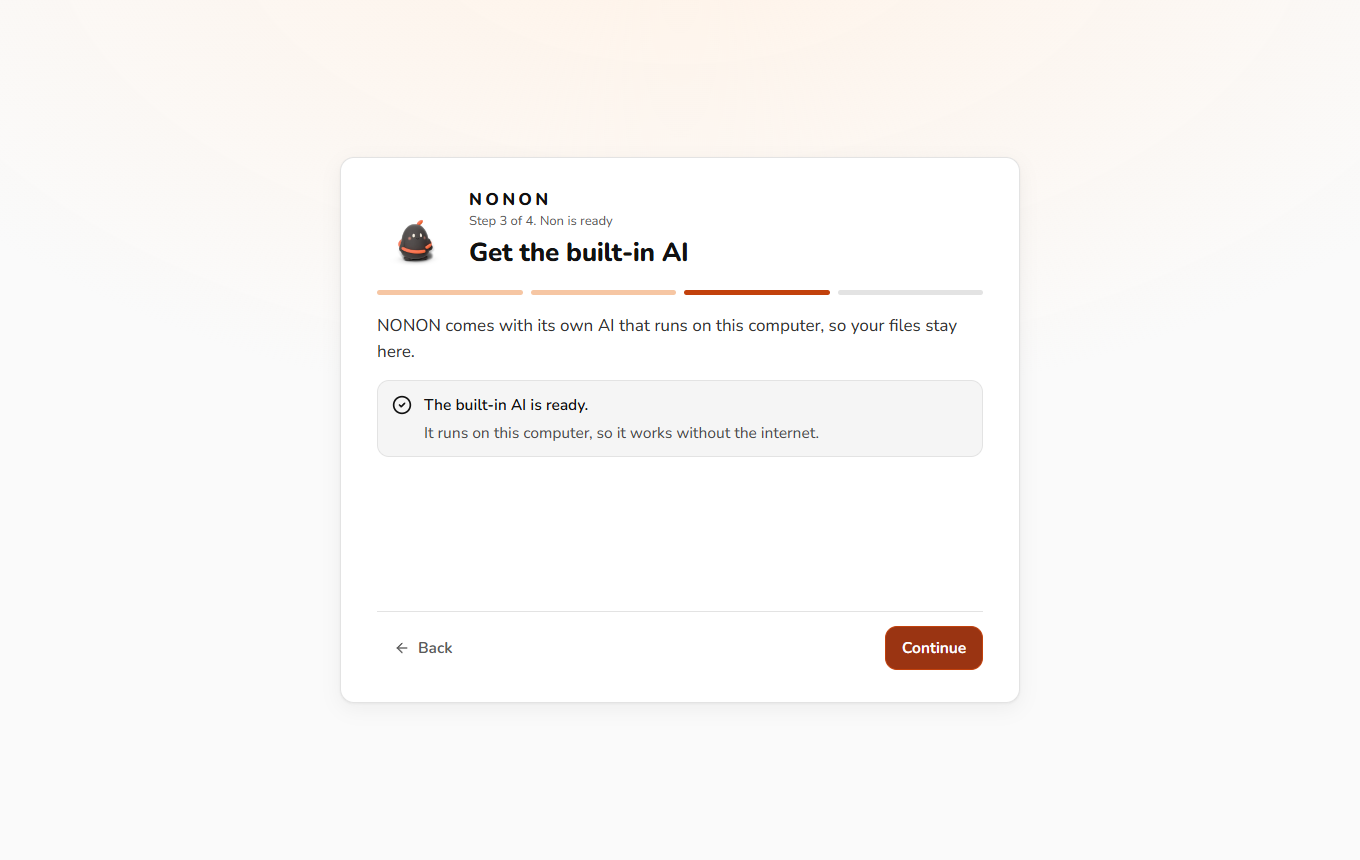
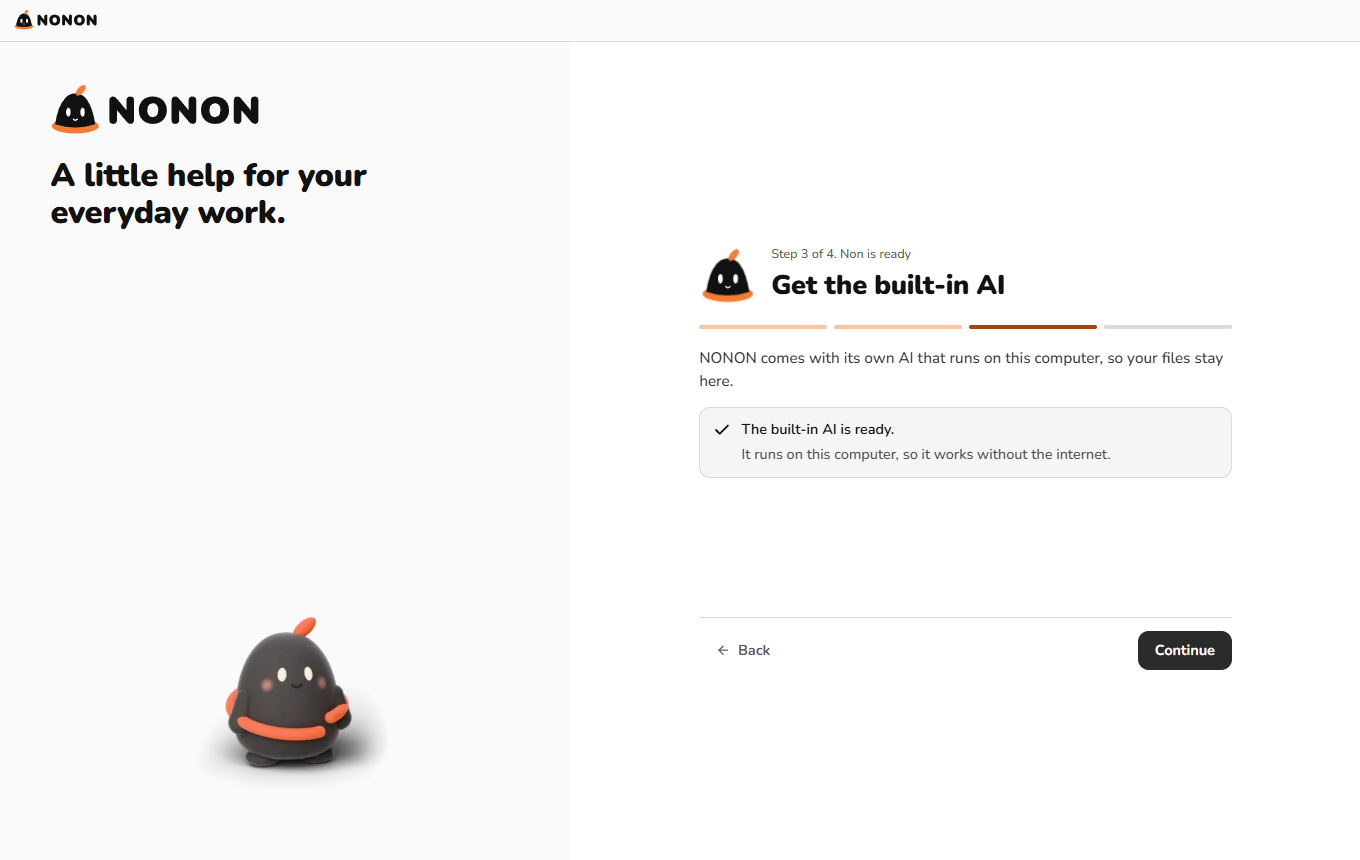
Add the MacBook's specs and measured speed; refresh submission docs and screenshots

diff --git a/site/web/lib/motion.js b/site/web/lib/motion.js
@@ -1,0 +1,86 @@
+/* ============================================================================
+   motion.js: the physics behind every gesture on the page, and one frame clock.
+
+   Ported from the Pragma site (motion.js + clock.js). Springs are parameterised the way
+   Apple's fluid-interfaces talk does it: `response` (seconds to reach the target) and
+   `damping` (1 = critically damped, no overshoot).
+   ========================================================================== */
+
+export const clamp = (n, a, b) => Math.min(b, Math.max(a, n));
+
+export class Spring {
+  constructor(value = 0, { response = 0.4, damping = 1 } = {}) {
+    this.v = value; this.target = value; this.vel = 0;
+    this.response = response; this.damping = damping;
+  }
+  set(target) { this.target = target; return this; }
+  /** Seed a value without motion. Never use this to interrupt one. */
+  jump(v) { this.v = v; this.target = v; this.vel = 0; return this; }
+  /** Velocity handoff: continue at the gesture's exact release speed. */
+  kick(vel) { this.vel = vel; return this; }
+  step(dt) {
+    const w = (2 * Math.PI) / this.response;
+    const k = w * w, c = 2 * this.damping * w;
+    // fixed substeps: a stiff spring integrated on one long frame explodes
+    const n = Math.max(1, Math.ceil(dt * 240));
+    const h = dt / n;
+    for (let i = 0; i < n; i++) {
+      const a = -k * (this.v - this.target) - c * this.vel;
+      this.vel += a * h;
+      this.v += this.vel * h;
+    }
+    return this.v;
+  }
+  get settled() { return Math.abs(this.v - this.target) < 0.002 && Math.abs(this.vel) < 0.02; }
+}
+
+/** Progressive resistance past a boundary: follows less the further you pull. */
+export const rubberband = (overshoot, dimension, constant = 0.55) =>
+  (overshoot * dimension * constant) / (dimension + constant * Math.abs(overshoot));
+
+/** A short history of pointer samples. Release velocity needs more than the last point. */
+export class Tracker {
+  constructor(depth = 6) { this.depth = depth; this.pts = []; }
+  push(x, y, t) { this.pts.push({ x, y, t }); if (this.pts.length > this.depth) this.pts.shift(); }
+  velocity() {
+    const p = this.pts;
+    if (p.length < 2) return { x: 0, y: 0 };
+    const a = p[0], b = p[p.length - 1];
+    const dt = (b.t - a.t) / 1000;
+    if (dt <= 0.001) return { x: 0, y: 0 };
+    return { x: (b.x - a.x) / dt, y: (b.y - a.y) / dt };
+  }
+  reset() { this.pts.length = 0; }
+}
+
+/** 1:1 drag with the grab offset preserved and rubber-banded walls. */
+export function dragPosition(pointer, grab, bounds, dim) {
+  const raw = { x: pointer.x - grab.x, y: pointer.y - grab.y };
+  return {
+    x: raw.x < bounds.minX ? bounds.minX + rubberband(raw.x - bounds.minX, dim.w)
+      : raw.x > bounds.maxX ? bounds.maxX + rubberband(raw.x - bounds.maxX, dim.w) : raw.x,
+    y: raw.y < bounds.minY ? bounds.minY + rubberband(raw.y - bounds.minY, dim.h)
+      : raw.y > bounds.maxY ? bounds.maxY + rubberband(raw.y - bounds.maxY, dim.h) : raw.y,
+  };
+}
+
+/* ── one frame clock ────────────────────────────────────────────────────────
+   It rides GSAP's ticker when GSAP is on the page, because Lenis moves the scroll on that
+   ticker: anything that reads a scroll-driven rectangle every frame (the 3D files flying into
+   the app window) has to run on the same tick, or it trails the page by a frame and swims. */
+const tasks = new Set();
+let last = performance.now();
+function run(now) {
+  // Clamped: after a tab switch the first delta is seconds long, and a spring would jump.
+  const dt = Math.min((now - last) / 1000, 1 / 20);
+  last = now;
+  for (const task of tasks) task(dt, now);
+}
+let started = false;
+function start() {
+  if (started) return;
+  started = true;
+  if (window.gsap) window.gsap.ticker.add(() => run(performance.now()));
+  else { const loop = (now) => { run(now); requestAnimationFrame(loop); }; requestAnimationFrame(loop); }
+}
+export const onTick = (fn) => { start(); tasks.add(fn); return () => tasks.delete(fn); };

diff --git a/submission/SUBMISSION-CHECKLIST.md b/submission/SUBMISSION-CHECKLIST.md
@@ -16,21 +16,21 @@ Status words: DONE (exists and checked), DRAFT (written, needs Kyle), KYLE (only
 
 | Item | Status | Notes |
 |---|---|---|
-| Public repository | KYLE | Repo is local only (no git remote). Make it public only on Kyle's go. A quick pattern scan of tracked files found no keys or secrets (not a full audit). `.env`, models, installers are gitignored. Decide whether the 7 MB of submission videos go in the repo. License is Apache-2.0 (`LICENSE`, `NOTICE`). |
+| Public repository | DONE | https://github.com/systoai-design/Nonon is public (Apache-2.0), one clean history, scanned for secrets and personal data. |
 | One-minute video | DONE as a file, KYLE to upload | `submission/demo-1min.mp4` (58.2 s, 1920x1080, H.264, silent AAC track, captions burned in). Teaser `demo-teaser.mp4` (15 s) and `demo-1min-poster.png`. Upload and link are Kyle's. Watch it once before posting. |
 | Sponsor-tagged post | DRAFT, KYLE | Draft in `SUBMISSION-DRAFT.md`. Tags are `[SPONSOR TAGS: from the organizer briefing]`. Needs Kyle's go to post. |
 | Eligibility and forms | OPEN, KYLE | These come from a briefing Kyle has not shared with the build team. Not invented. Needs Kyle: eligibility rules, team or solo entry, any entry form fields, required category, required tools or sponsor products, rules about reused code. |
 | Reconfirm deadline with the host | KYLE | The plan says to confirm 2026-10-10 10:00 Philippine time independently. Not done. |
 | Disclosures: reused components, models and APIs, AI coding tools | DONE | `NOTICE`, `docs/project/reuse-inventory.md`, `SUBMISSION-DRAFT.md`. Pragma (Apache-2.0), llama.cpp (MIT), Qwen3.5 (Apache-2.0), Nunito (OFL), Claude as the coding tool. Confirm that the organizer is happy with Pragma reuse (Kyle's own sibling project, same license). |
-| Tested build, factual feature status | DONE | `docs/project/DELIVERY-LEDGER.md`. 684 tests passed, 33 skipped. |
+| Tested build, factual feature status | DONE | `docs/project/DELIVERY-LEDGER.md`. 716 tests passed, 33 skipped. |
 | Demo assets | DONE | Video, teaser, poster, 8 screenshots (`SCREENSHOTS.md`). |
 | Judge instructions | DONE | `JUDGE-QUICKSTART.md`. |
 
 ## B. Needs Kyle before submitting
 
-1. Final rebuild after the brand swap and the folder-prompt fix (STATE.md next action): Windows and Mac, then re-upload to R2 and update the site /status page. The live `/api/latest` on 2026-10-10 listed version 0.1.0 dated 2026-10-09 11:18 UTC with the Windows installer marked not signed. The demo video was recorded from the repository source built on 2026-10-10, not from that installer. Check that the downloadable build behaves the same as the video.
-2. Brand pack (`NONON-BRAND-VISUALS-HANDOVER-v1.zip`): not on this PC. Stand-in logo, icons and fonts are in place. If it is swapped in, re-record or re-check the video and screenshots.
-3. Say go for each publishing step: repository public, video upload, post, site deploy. (Standing rule: publishing needs his OK at that moment.)
+1. (Done) Final rebuild after the brand swap: the live downloads are the final builds.
+2. (Done) Brand pack: the official logos, icons, fonts and Non art are in the app, the site and the re-recorded video.
+3. Say go for each remaining publishing step: video upload and post (the repository and site are already public). (Standing rule: publishing needs his OK at that moment.)
 4. Google OAuth Desktop client (`docs/gmail-setup.md`) if live Gmail should be shown. Without it, say Gmail is tested against a fake Google only.
 5. Claude sign-in if a real Claude turn should be claimed. Without it, the Claude connection stays described as installed but not signed in.
 6. Look at the video once. Things you may want to change: caption wording, the title line, end card text ("Windows and Mac", "Reuses Pragma"), and whether the orange cursor dot (a recording aid) is acceptable.

diff --git a/README.md b/README.md
@@ -170,7 +170,7 @@ The comparison workbook has one sheet for each group of rows: Matched, Only in A
   <br><em>"About this comparison" spells out the rules in plain words so someone else can check the work.</em>
 </p>
 
-In the chat, the card also shows a preview and a list of green ticks (and a warning where one applies). Expected for the sample pair: 51 rows, 19 matched pairs, 4 only in the expense report, 5 only in the bank export, 1 listed twice, 3 not sure, totals PHP 70,852.30 and PHP 68,286.70, difference PHP 2,565.60.
+In the chat, the card also shows a preview and a list of check marks (and a warning where one applies). Expected for the sample pair: 51 rows, 19 matched pairs, 4 only in the expense report, 5 only in the bank export, 1 listed twice, 3 not sure, totals PHP 70,852.30 and PHP 68,286.70, difference PHP 2,565.60.
 
 <p align="center">
   <img src="docs/readme/14-results-inline-card.png" width="800" alt="The chat showing the answer with an inline preview of the comparison spreadsheet and an Expand link">
@@ -530,13 +530,15 @@ These numbers were measured by running the real code. They describe the test mac
 
 Test PC (Windows 11): Intel i7-13700K, 64 GB memory, NVIDIA RTX 5070 with 12 GB. Engine llama.cpp b10909, Qwen3.5 Q4_K_M models, a 16K-token window, one request at a time ([`runtime-evidence.md`](docs/project/04-build-log/runtime-evidence.md)).
 
+Test laptop (macOS 26.6): MacBook Pro (model Mac17,6) with an Apple M5 Max chip, 18 CPU cores (6 super and 12 performance), a 32-core GPU, 36 GB of unified memory and Metal 4. The same engine build for macOS on Apple silicon (llama.cpp b10909, Metal), the same Qwen3.5 4B Q4_K_M model, the same 16K-token window and one request at a time. The speed test below used the same 2,041-token prompt as on the PC.
+
 | Run | Speed | Memory | Notes |
 | --- | --- | --- | --- |
 | Qwen3.5 4B, CUDA (graphics card) | about 139 tokens/s writing; first token 0.18 s after a 600-token prompt | 3.5 GiB peak | Start in 2 to 4 s. Idle unload gave the memory back |
 | Qwen3.5 4B, Vulkan | about 131 tokens/s | 3.3 GiB peak | The first answer on Vulkan took 27 s once (one-time shader build) |
 | Qwen3.5 9B, CUDA (the "recommended" size for 16 GB and up) | 89 to 91 tokens/s | 5.8 GiB peak | First token 0.26 s |
 | Qwen3.5 4B, **no graphics card** (CPU only, 4 threads) | 55 tokens/s reading a 2,041-token prompt, 13 tokens/s writing | 4.45 GiB | A 46 s run. A comparison explanation would take roughly 20 to 30 s. The comparison itself (code) takes well under a second |
-| Qwen3.5 4B on a MacBook (M5 Max, Metal) | same results as Windows | 3.4 GiB peak | Packaged app: install, answer, compare |
+| Qwen3.5 4B on the MacBook (M5 Max, Metal) | 3,038 tokens/s reading the 2,041-token prompt; about 87 tokens/s writing (101 when the prompt was already cached) | 3.2 GiB in the speed test; 3.4 to 3.7 GiB peak seen inside the packaged app | The AI server was ready in about half a second with the model file already cached by macOS. The whole comparison took 3.1 s in the signed app. Same answers and the same undo hash as Windows |
 
 What this does and does not show: the model loads and answers in under 5 GiB with no graphics card, so a 16 GB computer has headroom and an 8 GB computer is plausible. On an 8 GB computer with a slower processor, expect longer waits than shown. **Not tested:** a real 8 GB machine, paging, thermal throttling, other apps running alongside, AMD or Intel graphics, and Windows without the Visual C++ runtime. The app ships the runtime DLLs, but that fallback was not exercised.
 

diff --git a/submission/SCREENSHOTS.md b/submission/SCREENSHOTS.md
@@ -4,13 +4,13 @@ All eight are of the real app (Electron, current black, white and orange look), 
 
 | File | Source | What it shows |
 |---|---|---|
-| `screenshots/01-onboarding-setup-ready.png` | `brand-03-onboarding-setup-ready.png` | First run, step 3: "The built-in AI is ready. It runs on this computer, so it works without the internet." |
-| `screenshots/02-home-starter-cards.png` | `brand-05b-home-starter-cards.png` | Project home with the starter jobs and "Try the sample"; header reads "AI: This computer". |
-| `screenshots/03-clarifying-question.png` | `brand-10-clarifying-question.png` | Plain questions with a "Suggested" answer on each, before the comparison runs. |
-| `screenshots/04-results-panel-settled.png` | `brand-12b-results-panel-settled.png` | The answer inside the app: summary, exact totals, green checks, sheet tabs. |
-| `screenshots/05-review-panel.png` | `brand-13-review-panel.png` | "Changes to check": the exact two columns it wants to add. Nothing changes until OK. |
-| `screenshots/06-change-applied.png` | `brand-13b-change-applied.png` | After "Make the change": the backup note and "Undo this change". |
-| `screenshots/07-settings-changes-and-backups.png` | `brand-14-settings-changes-and-backups.png` | Setting "Check with me first" (default) and backup copies always on. |
-| `screenshots/08-connections.png` | `brand-15-connections.png` | Gmail and online AI are optional and off until you turn them on. |
+| `screenshots/01-onboarding-setup-ready.png` | `brand2-03-onboarding-setup-ready.png` | First run, step 3: "The built-in AI is ready. It runs on this computer, so it works without the internet." |
+| `screenshots/02-home-starter-cards.png` | `brand2-05b-home-starter-cards.png` | Project home with the starter jobs and "Try the sample"; header reads "AI: This computer". |
+| `screenshots/03-clarifying-question.png` | `brand2-10-clarifying-question.png` | Plain questions with a "Suggested" answer on each, before the comparison runs. |
+| `screenshots/04-results-panel-settled.png` | `brand2-12b-results-panel-settled.png` | The answer inside the app: summary, exact totals, green checks, sheet tabs. |
+| `screenshots/05-review-panel.png` | `brand2-13-review-panel.png` | "Changes to check": the exact two columns it wants to add. Nothing changes until OK. |
+| `screenshots/06-change-applied.png` | `brand2-13b-change-applied.png` | After "Make the change": the backup note and "Undo this change". |
+| `screenshots/07-settings-changes-and-backups.png` | `brand2-14-settings-changes-and-backups.png` | Setting "Check with me first" (default) and backup copies always on. |
+| `screenshots/08-connections.png` | `brand2-15-connections.png` | Gmail and online AI are optional and off until you turn them on. |
 
-Not used: the `results-*`, `e2e-*` and `mac-*` screenshots show an earlier look (the "Pebble" companion, sage green). The Mac proof (`mac-02-results.png`) is in that older look.
+Not used: the `results-*`, `e2e-*`, `brand-*` and earlier `mac-*` screenshots show earlier looks (stand-in logo and art); every image listed above is from the final official-brand build (`brand2-*`).

diff --git a/docs/project/DELIVERY-LEDGER.md b/docs/project/DELIVERY-LEDGER.md
@@ -9,7 +9,7 @@ Every line says what was actually run. "Mocked" means a fake stood in for the re
 | Area | What was run | Result |
 |---|---|---|
 | Local AI, Windows | Real install (runtime + Qwen3.5 4B and 9B), start, answer, idle unload, quit, on an RTX 5070 (CUDA and Vulkan builds) | 4B: about 139 tokens/s, 3.5 GiB peak, first token 0.18 s; process gone after Stop and after quit (runtime-evidence.md) |
-| Local AI, Mac | Packaged app on a MacBook (M5 Max): install, answer, compare task | Metal runtime, 4B, peak 3.4 GiB, same results as Windows |
+| Local AI, Mac | Packaged app and a speed test on a MacBook Pro (Mac17,6: Apple M5 Max, 18 CPU cores, 32-core GPU, 36 GB, macOS 26.6): install, answer, compare task | Metal runtime, Qwen3.5 4B: 3,038 tokens/s reading a 2,041-token prompt, about 87 tokens/s writing, 3.2 GiB in the test (3.4 to 3.7 GiB peak in the app); same results as Windows |
 | Local AI, no graphics card | 4B on CPU only, 4 threads, 16K window | 55 tokens/s reading, 13 tokens/s writing, 4.45 GiB; real 8 GB computers NOT tested |
 | Nothing leaves the computer for local jobs | Every TCP and UDP connection of the whole process tree sampled every 0.5 s through start, a full comparison, idle and quit (network-inventory.md) | Zero non-loopback connections after a start-up DNS lookup and a UDP probe by Chromium were switched off. Not firewall-proof: no admin rights to add an OS-level block |
 | Spreadsheet comparison (lead demo) | Known-answer fixtures (100 tests) and the real app on both OSes | Planted differences found (typo, date lag, listed twice, only-in-one); every row accounted for; amounts exact; the comparison workbook opens on a plain one-page summary |

diff --git a/docs/project/04-build-log/runtime-evidence.md b/docs/project/04-build-log/runtime-evidence.md
@@ -111,3 +111,15 @@ with no usable graphics card might experience on THIS CPU. It is not a measureme
   NOT tested: a real 8 GB machine, paging behaviour, thermal throttling, other apps running alongside.
 - The spreadsheet comparison sends about 1,000 tokens to the model, so on CPU only the explanation would take roughly
   20 to 30 s. The comparison itself (code) takes well under a second.
+
+## Added by the lead 2026-10-10 02:50: speed test on the MacBook (Metal)
+
+Machine: MacBook Pro (Mac17,6), Apple M5 Max, 18 CPU cores (6 super, 12 performance), 32-core GPU, 36 GB unified memory, macOS 26.6.2, Metal 4.
+
+- Same engine build as the app ships (llama.cpp b10909, macOS arm64, Metal), `qwen3.5-4b` Q4_K_M, `-c 16384 --parallel 1 --jinja`, 8-bit cache with flash attention, thinking off, run with the same flags as the PC test.
+- Prompt: the same 2,041 tokens used for the CPU-only test on the PC (the bank-export sample twice plus an instruction), 120 tokens written.
+- Server ready (health check) after about 0.5 s with the model file already in the macOS file cache. A first start after a reboot reads the 2.7 GB file from disk and will be slower: not measured.
+- First request: 2.1 s wall, reading 3,038 tokens/s, writing 86.7 tokens/s.
+- Second request, same prompt (2,037 tokens served from the prompt cache): 1.2 s wall, writing 100.9 tokens/s.
+- Resident memory of llama-server after the two requests: 3.15 GiB (measured with `ps`, not a continuous peak sampler). The packaged app's own sampler recorded 3.4 GiB (2026-10-09 run) and 3.71 GiB (2026-10-10 run).
+- Not measured: other Macs, battery power, thermal throttling over a long session, the 9B model.

diff --git a/submission/SUBMISSION-DRAFT.md b/submission/SUBMISSION-DRAFT.md
@@ -43,7 +43,7 @@ NONON never writes to your original file until you press OK, and it saves a back
 - Changes: stage, check, apply with a recovery copy, undo. Stale files are refused. Newer edits are never overwritten.
 - Site and downloads: trynonon.xyz on Cloudflare (a Worker for the site, an R2 bucket for the installers).
 - Windows installer built with electron-builder. Mac app signed with Kyle's own Developer ID, notarized and stapled.
-- Tests: `npx vitest run` gave 684 passed and 33 skipped (the skipped ones need a model, a command line tool or an account).
+- Tests: `npx vitest run` gave 716 passed and 33 skipped (the skipped ones need a model, a command line tool or an account).
 
 ## What is new in the hackathon, and what is reused
 
@@ -76,7 +76,7 @@ New in this hackathon (built from 2026-10-09 17:00 to the deadline): the app she
 - First run downloads 3 to 6 GB. There is no offline installer. Core jobs work offline after that.
 - Not built: phone app, Linux, Intel Macs, scanned PDFs, other characters (only Non), unrestricted screen control, automatic updates, model training.
 - The Windows installer is not code-signed, so Windows may show "Windows protected your PC" (More info, then Run anyway). [Confirm against the live download page before posting.]
-- The brand pack (official logos, icons, fonts) was not available; stand-ins are in place.
+- The official brand pack (logos, icons, Nunito, Non art) is in the app and the website.
 
 ## How a judge can try it in 3 minutes
 
